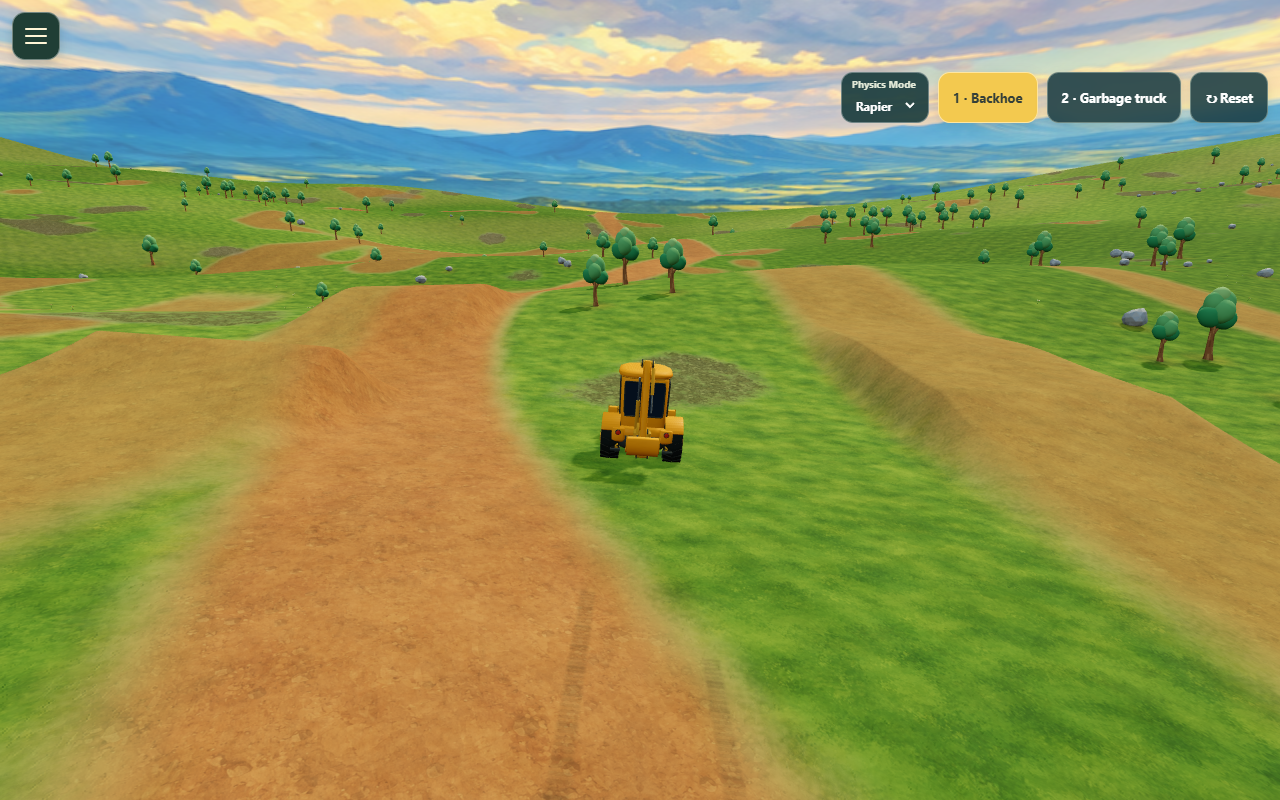
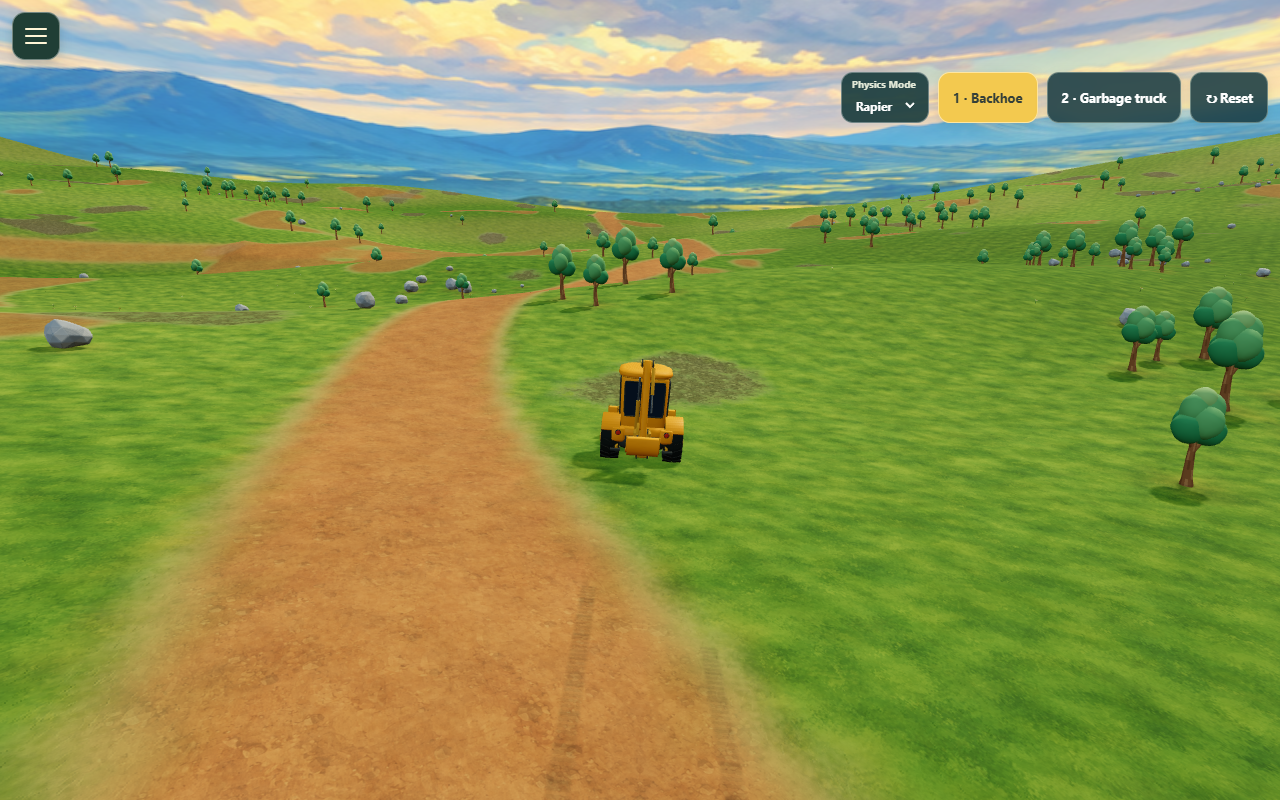
loading and map changes

diff --git a/index.html b/index.html
@@ -74,12 +74,50 @@ body.touch-enabled #mobile{display:flex}body.touch-enabled #help{display:none}
 #hud,#help{display:none!important}
 body[data-lbd-driving-hud="true"] #hud{display:block!important}
 body[data-lbd-controls-guide="true"] #help{display:block!important;max-width:calc(100vw - 32px);white-space:normal;pointer-events:none}
+
+/* First-paint loading screen; no font, image, or module downloads required. */
+#gameLoading{position:fixed;inset:0;z-index:1000;display:grid;place-items:center;background:#f5dfaa;color:#24332c;padding:24px;padding-top:max(24px,env(safe-area-inset-top));text-align:center;font-family:"Comic Sans MS","Chalkboard SE",cursive;overflow:hidden}
+#gameLoading::before,#gameLoading::after{content:"";position:absolute;width:78vmin;height:78vmin;background:#ead095;pointer-events:none;will-change:transform;backface-visibility:hidden;animation:loading-blob 12s cubic-bezier(.45,0,.55,1) infinite alternate}
+#gameLoading::before{border-radius:44% 56% 47% 53% / 53% 45% 55% 47%;transform:translate3d(-8px,-26px,0) rotate(-8deg) scale(.96,1.06)}
+#gameLoading::after{border-radius:56% 44% 54% 46% / 45% 56% 44% 55%;animation-name:loading-blob-back;transform:translate3d(8px,-12px,0) rotate(8deg) scale(1.06,.96)}
+#gameLoading .loading-content{position:relative;z-index:1;display:grid;justify-items:center;gap:24px}
+#gameLoading .gear-spinner{width:clamp(110px,24vmin,190px);aspect-ratio:1;animation:loading-turn 6s linear infinite;will-change:transform;transform:translateZ(0);backface-visibility:hidden}
+#gameLoading .loading-gear{display:block;width:100%;height:100%;filter:drop-shadow(0 8px 0 #b98b38)}
+#gameLoading h2{font-size:clamp(32px,7vw,52px);font-weight:900;letter-spacing:1px;margin:0;line-height:1.2;transform:rotate(-3deg);text-shadow:2px 3px #fff1cc}
+#gameLoading .loading-brand{font:800 11px system-ui;letter-spacing:4px;color:#6b6844;margin:0}
+#gameLoading button{border:2px solid #273a30;border-radius:14px;background:#e9b72d;color:#24332c;padding:12px 22px;font:700 16px system-ui;cursor:pointer}
+#gameLoading[hidden],#gameLoading button[hidden]{display:none}
+#gameLoading.loading-error .gear-spinner{animation-play-state:paused}
+/* Animate only composited transforms: no per-frame border-radius paint. */
+@keyframes loading-blob{
+from{transform:translate3d(-8px,-26px,0) rotate(-8deg) scale(.96,1.06)}
+to{transform:translate3d(8px,-12px,0) rotate(18deg) scale(1.09,.95)}
+}
+@keyframes loading-blob-back{
+from{transform:translate3d(8px,-12px,0) rotate(8deg) scale(1.06,.96)}
+to{transform:translate3d(-8px,-26px,0) rotate(-18deg) scale(.95,1.09)}
+}
+@keyframes loading-turn{from{transform:translateZ(0) rotate(0deg)}to{transform:translateZ(0) rotate(360deg)}}
+@media(prefers-reduced-motion:reduce){#gameLoading .gear-spinner,#gameLoading::before,#gameLoading::after{animation:none}}
+
 </style>
 
 <script type="importmap">{"imports":{"./WorldEnvironmentConfig.js":"./WorldEnvironmentConfig.js?v=expanded-map-1","three":"https://cdn.jsdelivr.net/npm/three@0.168.0/build/three.module.js","three/addons/":"https://cdn.jsdelivr.net/npm/three@0.168.0/examples/jsm/","./TuningStore.js":"./TuningStore.js?v=expanded-map-1","./SettingsPanel.js":"./SettingsPanel.js?v=expanded-map-1"}}</script>
 <script type="module" src="./SharedNavigation.js"></script></head>
 
 <body>
+<div id="gameLoading" role="status" aria-live="polite" aria-label="Loading Little Big Dirt">
+ <div class="loading-content"><p class="loading-brand">LITTLE BIG DIRT</p>
+ <div class="gear-spinner" aria-hidden="true"><svg class="loading-gear" viewBox="0 0 200 200" aria-hidden="true"><path d="M168.00,100.00 L184.27,111.09 L182.10,122.00 L162.82,126.02 L158.89,134.00 L167.44,151.74 L160.10,160.10 L141.40,153.95 L134.00,158.89 L132.53,178.53 L122.00,182.10 L108.88,167.42 L100.00,168.00 L88.91,184.27 L78.00,182.10 L73.98,162.82 L66.00,158.89 L48.26,167.44 L39.90,160.10 L46.05,141.40 L41.11,134.00 L21.47,132.53 L17.90,122.00 L32.58,108.88 L32.00,100.00 L15.73,88.91 L17.90,78.00 L37.18,73.98 L41.11,66.00 L32.56,48.26 L39.90,39.90 L58.60,46.05 L66.00,41.11 L67.47,21.47 L78.00,17.90 L91.12,32.58 L100.00,32.00 L111.09,15.73 L122.00,17.90 L126.02,37.18 L134.00,41.11 L151.74,32.56 L160.10,39.90 L153.95,58.60 L158.89,66.00 L178.53,67.47 L182.10,78.00 L167.42,91.12 Z M128,100 A28,28 0 1,0 72,100 A28,28 0 1,0 128,100 Z" fill="#efb923" stroke="#354034" stroke-width="5" stroke-linejoin="round" fill-rule="evenodd"/></svg></div>
+ <h2 id="loadingMessage">Loading…</h2><button id="loadingRetry" type="button" hidden>Try again</button></div>
+</div>
+<script>
+// Show a usable retry if a required module fails, rather than spinning forever.
+function loadingFailed(){const screen=document.querySelector('#gameLoading');if(screen&&!screen.hidden){screen.classList.add('loading-error');document.querySelector('#loadingMessage').textContent='Oops! Try again';document.querySelector('#loadingRetry').hidden=false;}}
+addEventListener('error',loadingFailed);addEventListener('unhandledrejection',loadingFailed);
+document.querySelector('#loadingRetry').onclick=()=>location.reload();
+</script>
+
 
 <div id="hud"><div class="subtitle">FREE DRIVE</div><h1>LITTLE BIG DIRT</h1><div id="vehicleName">Backhoe Loader</div><div id="speed">0 <small>MPH</small></div><button id="debugToggle" type="button" aria-label="Toggle driving diagnostics" aria-pressed="false" title="Driving diagnostics">i</button><div id="treeTuning" style="font-size:11px;color:#ffe5a0;margin-top:6px"></div><div id="renderTuning" style="font-size:10px;color:#c6e3d5;margin-top:4px"></div><div id="terrainInfo" style="font-size:11px;color:#c6e3d5;margin-top:6px">Explore the hills!</div></div>
 
@@ -124,6 +162,7 @@ import { GroundDebrisSystem, DebrisWheelContacts } from './GroundDebrisSystem.js
 import { addGroundTextures } from './GroundTextures.js?v=expanded-map-1';
 import { createPolishedLighting, ContactShading, polishTerrain, VehicleSurfaceEffects } from './VisualPolish.js';
 import { DirtJumpSystem, playgroundFeatures } from './DirtJumpSystem.js';
+import { mainWorldRamps, rampClearance } from './MainWorldRamps.js';
 import {playableVehicleConfig,smoothDrivingSteering,hybridDrivingInput,hybridLandingFeedback} from './PlayableVehicleSetup.js';
 import { RapierWorldVehicle, loadWorldPhysics } from './RapierWorldVehicle.js?v=rapier-world-5';
 import { BoundaryCannon } from './BoundaryCannon.js';
@@ -137,6 +176,7 @@ debugToggle.onclick=()=>{toggleDiagnostics(!document.body.classList.contains('sh
 toggleDiagnostics(new URLSearchParams(location.search).has('debug')||preferences.diagnostics===true);
 const hillPhysics=new HillSpeedPhysics(surfaceHeight);
 
+await new Promise(resolve=>requestAnimationFrame(()=>setTimeout(resolve,0)));
 const scene=new THREE.Scene();scene.background=new THREE.Color(0xb5e1ee);
 
 const camera=new THREE.PerspectiveCamera(66,innerWidth/innerHeight,.1,600);
@@ -153,16 +193,17 @@ const green=mat(0x86bc68),road=mat(0xcba46b),yellow=mat(0xf3b926),yellowDark=mat
 const handlingCourse=new URLSearchParams(location.search).has('handling');
 function height(x,z){return 2.6*Math.sin(x*.035)*Math.cos(z*.044)+3.6*Math.sin((x+z)*.018)+1.4*Math.cos(z*.085+x*.027)+.00034*(x*x+z*z)}
 function handlingHeight(x,z){const lane=center=>Math.max(0,1-Math.abs(x-center)/22);const envelope=Math.exp(-(((z+65)/35)**2));return lane(0)*1.8*envelope+lane(85)*.10*Math.sin(z*1.1)*envelope;}
-const worldJumps=new DirtJumpSystem(handlingCourse?handlingHeight:height,jumpConfig.enabled?playgroundFeatures():[]);
+const mapSettings=mainWorldSettings();
+const originalLayout=createSceneryLayout(createTerrainPainter(height,220),mapSettings.halfSize,worldAppearance,mapSettings.areaScale);
+const rampLayout=handlingCourse?playgroundFeatures():mainWorldRamps({halfSize:mapSettings.halfSize,height,layout:originalLayout});
+const worldJumps=new DirtJumpSystem(handlingCourse?handlingHeight:height,jumpConfig.enabled?rampLayout:[]);
 function surfaceHeight(x,z){return worldJumps.sample(x,z);}
 
 function groundNormal(x,z){const e=.7;return new THREE.Vector3(surfaceHeight(x-e,z)-surfaceHeight(x+e,z),2*e,surfaceHeight(x,z-e)-surfaceHeight(x,z+e)).normalize()}
 
 // Full width is configurable; procedural coordinates and ramp dimensions stay fixed.
 
-const mapSettings=mainWorldSettings();
-
-const world=mapSettings.halfSize,worldSurface=worldJumps.createWorldSurface(world);
+const world=mapSettings.halfSize,worldSurface=worldJumps.createWorldSurface(world,2,handlingCourse ? .75 : 1.5);
 const geo=new THREE.BufferGeometry();geo.setAttribute('position',new THREE.BufferAttribute(worldSurface.vertices,3));geo.setIndex(new THREE.BufferAttribute(worldSurface.indices,1));const pos=geo.attributes.position,colors=[];
 
 const terrainPainter=createTerrainPainter(surfaceHeight,220),terrainColor=new THREE.Color();
@@ -205,8 +246,7 @@ function makeTree(x,z,scale=1){const g=new THREE.Group();g.position.set(x,surfac
 
 let seed=3184;function rand(){seed=(seed*1664525+1013904223)>>>0;return seed/4294967296}
 
-const originalLayout=createSceneryLayout(createTerrainPainter(height,220),world,worldAppearance,mapSettings.areaScale);
-const sceneryLayout={trees:(handlingCourse?[]:originalLayout.trees).filter(t=>!worldJumps.contains(t.x,t.z,5)),rocks:(handlingCourse?[]:originalLayout.rocks).filter(r=>!worldJumps.contains(r.x,r.z,6))};
+const sceneryLayout={trees:(handlingCourse?[]:originalLayout.trees).filter(t=>!worldJumps.features.some(f=>rampClearance(f,t.x,t.z,t.scale*.35+3))),rocks:(handlingCourse?[]:originalLayout.rocks).filter(r=>!worldJumps.features.some(f=>rampClearance(f,r.x,r.z,r.radius+4)))};
 polishTerrain(terrain,terrainPainter,sceneryLayout,world);
 const groundTextures=addGroundTextures(terrain,terrainPainter,world,renderer);
 addEventListener('pagehide',event=>{if(!event.persisted)groundTextures.dispose();});
@@ -542,7 +582,7 @@ document.querySelector('#speed').innerHTML=Math.round(Math.abs(speed)*2.237)+' <
 physicsSelector.value=preferences.physicsMode;physicsSelector.dispatchEvent(new Event('change'));
 
 let diagnosticFrames=0,diagnosticStart=performance.now();
-function animate(){requestAnimationFrame(animate);const dt=Math.min(clock.getDelta(),.05);if(!garage.open){update(dt);storybookBackground?.update(dt);groundTextures.update();groundDetails.update(camera.position);renderer.render(scene,camera);diagnosticFrames++;const now=performance.now();if(now-diagnosticStart>1000){if(document.body.classList.contains('show-debug'))document.querySelector('#renderTuning').textContent=Math.round(diagnosticFrames*1000/(now-diagnosticStart))+' FPS · '+renderer.info.render.calls+' draws · '+Math.round(renderer.info.render.triangles/1000)+'k triangles';diagnosticFrames=0;diagnosticStart=now;}}}animate();
+function animate(){requestAnimationFrame(animate);const dt=Math.min(clock.getDelta(),.05);if(!garage.open){update(dt);storybookBackground?.update(dt);groundTextures.update();groundDetails.update(camera.position);renderer.render(scene,camera);if(!physicsSelector.disabled){document.querySelector('#gameLoading').hidden=true;}diagnosticFrames++;const now=performance.now();if(now-diagnosticStart>1000){if(document.body.classList.contains('show-debug'))document.querySelector('#renderTuning').textContent=Math.round(diagnosticFrames*1000/(now-diagnosticStart))+' FPS · '+renderer.info.render.calls+' draws · '+Math.round(renderer.info.render.triangles/1000)+'k triangles';diagnosticFrames=0;diagnosticStart=now;}}}animate();
 
 addEventListener('resize',()=>{camera.aspect=innerWidth/innerHeight;camera.updateProjectionMatrix();renderer.setSize(innerWidth,innerHeight)});
 

diff --git a/MainWorldRamps.js b/MainWorldRamps.js
@@ -1,0 +1,41 @@
+import {playgroundFeatures} from './DirtJumpSystem.js';
+
+// Shared clearance envelope: 40m run-up before the approach and a long landing
+// beyond even the gap's landing mound. Coordinates follow DirtJumpSystem.local.
+export function rampPoint(f,side,along){
+ return {x:f.x+side*Math.cos(f.angle)+along*Math.sin(f.angle),z:f.z-side*Math.sin(f.angle)+along*Math.cos(f.angle)};
+}
+export function rampClearance(f,x,z,margin=0){
+ const dx=x-f.x,dz=z-f.z,c=Math.cos(f.angle),s=Math.sin(f.angle);
+ return Math.abs(dx*c-dz*s)<f.width*.6+6+margin && dx*s+dz*c>-60-margin && dx*s+dz*c<95+margin;
+}
+export function mainWorldRamps({halfSize,height,layout,seed=41729}){
+ let state=seed>>>0;
+ const random=()=>((state=(Math.imul(state,1664525)+1013904223)>>>0)/4294967296);
+ const placed=[],obstacles=[...layout.trees.map(t=>({...t,r:t.scale*.35+3})),...layout.rocks.map(r=>({...r,r:r.radius+4}))];
+ for(const template of playgroundFeatures()){
+  let accepted,bestScore=Infinity;
+  for(let attempt=0;attempt<4000;attempt++){
+   const f={...template,x:(random()*2-1)*(halfSize-35),z:(random()*2-1)*(halfSize-35),angle:random()*Math.PI*2};
+   if(placed.some(other=>Math.hypot(other.x-f.x,other.z-f.z)<200))continue;
+
+   let clear=true;
+   for(let along=-60;along<=95&&clear;along+=5)for(const side of [-f.width*.6-6,0,f.width*.6+6]){
+    const p=rampPoint(f,side,along);
+    // Preserve the existing meandering road and spawn meadow. Keep the whole
+    // corridor inside the drivable boundary, away from steep base terrain.
+    if(Math.max(Math.abs(p.x),Math.abs(p.z))>halfSize-25 || Math.hypot(p.x,p.z)<35 ||
+       Math.abs(p.x-18*Math.sin(p.z*.025))<22 ||
+       Math.hypot((height(p.x+1,p.z)-height(p.x-1,p.z))/2,(height(p.x,p.z+1)-height(p.x,p.z-1))/2)>.55){clear=false;break;}
+   }
+   if(clear){
+    const score=obstacles.filter(o=>rampClearance(f,o.x,o.z,o.r)).length;
+    if(score<bestScore){accepted=f;bestScore=score;}
+    if(score===0)break;
+   }
+  }
+  if(!accepted)throw new Error(`No clear main-world ramp location for ${template.id}`);
+  placed.push(accepted);
+ }
+ return placed;
+}

diff --git a/DirtJumpSystem.js b/DirtJumpSystem.js
@@ -33,7 +33,7 @@ export class DirtJumpSystem {
 
 // Fine shared grid around the playground, original 2-unit grid elsewhere. One seamless mesh.
 DirtJumpSystem.prototype.createWorldSurface=function(halfSize=220,coarse=2,fine=.75){
- const axis=(low,high)=>{const values=new Set();for(let t=-halfSize;t<=halfSize+.001;t+=coarse)values.add(Number(t.toFixed(5)));values.add(halfSize);for(let t=Math.max(-halfSize,Math.floor(low/fine)*fine);t<=Math.min(halfSize,high);t+=fine)values.add(Number(t.toFixed(5)));return [...values].sort((a,b)=>a-b);};
+ const axis=(low,high)=>{const values=new Set();for(let t=-halfSize;t<=halfSize+.001;t+=coarse)if(t<low||t>high)values.add(Number(t.toFixed(5)));values.add(halfSize);for(let t=Math.max(-halfSize,Math.floor(low/fine)*fine);t<=Math.min(halfSize,high);t+=fine)values.add(Number(t.toFixed(5)));return [...values].sort((a,b)=>a-b);};
  let xmin=Infinity,xmax=-Infinity,zmin=Infinity,zmax=-Infinity;for(const f of this.features)for(const side of [-f.width*.6-5,f.width*.6+5])for(const along of [-f.approach-8,85]){const x=f.x+side*Math.cos(f.angle)+along*Math.sin(f.angle),z=f.z-side*Math.sin(f.angle)+along*Math.cos(f.angle);xmin=Math.min(xmin,x);xmax=Math.max(xmax,x);zmin=Math.min(zmin,z);zmax=Math.max(zmax,z);}
  const xs=axis(xmin,xmax),zs=axis(zmin,zmax),vertices=new Float32Array(xs.length*zs.length*3),indices=new Uint32Array((xs.length-1)*(zs.length-1)*6);let k=0,j=0;
  for(const z of zs)for(const x of xs){vertices[k++]=x;vertices[k++]=this.sample(x,z);vertices[k++]=z;}

diff --git a/tests/run_rapier_world_tests.py b/tests/run_rapier_world_tests.py
@@ -6,7 +6,7 @@ with tempfile.TemporaryDirectory(prefix='dirt-rapier-world-') as folder:
     cached=Path(tempfile.gettempdir())/'three-backhoe.mjs'
     if cached.exists():shutil.copyfile(cached,work/'three-test.mjs')
     else:urllib.request.urlretrieve('https://cdn.jsdelivr.net/npm/three@0.168.0/build/three.module.js',work/'three-test.mjs')
-    for name in ['ArcadeGroundDrive.js','RapierHandling.js','RapierWorldVehicle.js','JumpVehiclePrototype.js','DirtJumpSystem.js','HillSpeedPhysics.js','VehicleMotion.js','VehicleConfig.js','TreeCollisionSystem.js','RockInteractionSystem.js','GroundDebrisSystem.js']:
+    for name in ['MainWorldRamps.js','WorldAppearance.js','WorldEnvironmentConfig.js','ArcadeGroundDrive.js','RapierHandling.js','RapierWorldVehicle.js','JumpVehiclePrototype.js','DirtJumpSystem.js','HillSpeedPhysics.js','VehicleMotion.js','VehicleConfig.js','TreeCollisionSystem.js','RockInteractionSystem.js','GroundDebrisSystem.js']:
         source=(root/name).read_text(encoding='utf-8').replace("'three'","'./three-test.mjs'").replace("'https://cdn.jsdelivr.net/npm/three@0.168.0/build/three.module.js'","'./three-test.mjs'")
         (work/name).write_text(source,encoding='utf-8')
     shutil.copyfile(root/'viewer/vendor/rapier/rapier.mjs',work/'viewer/vendor/rapier/rapier.mjs')

diff --git a/tests/run_world_appearance_tests.py b/tests/run_world_appearance_tests.py
@@ -9,5 +9,7 @@ with tempfile.TemporaryDirectory(prefix='dirt-appearance-tests-') as folder:
     text=(root/'WorldAppearance.js').read_text(encoding='utf-8').replace("from 'three'","from './three-test.mjs'")
     (work/'WorldAppearance.js').write_text(text,encoding='utf-8');(work/'package.json').write_text('{"type":"module"}')
     shutil.copyfile(root/'WorldEnvironmentConfig.js',work/'WorldEnvironmentConfig.js')
+    for name in ['MainWorldRamps.js','DirtJumpSystem.js','VehicleConfig.js']:
+        shutil.copyfile(root/name,work/name)
     shutil.copyfile(root/'tests/world-appearance.mjs',work/'tests/world-appearance.mjs')
     subprocess.run(['node',str(work/'tests/world-appearance.mjs'),str(root/'index.html')],check=True)
